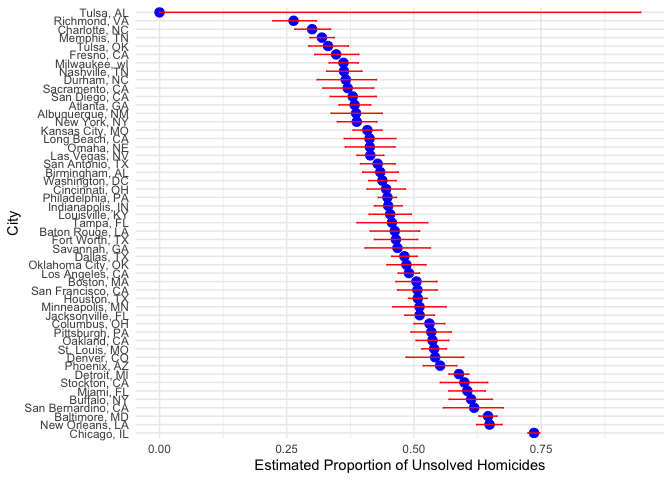
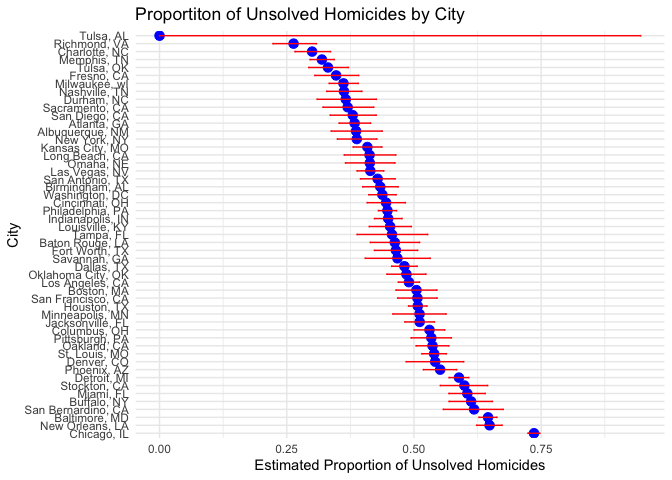
Perform simulations for problem 3

Changed region(s): [[0.0312, 0.0, 1.0, 0.9062], [0.0, 0.4375, 0.0312, 0.5312]]

diff --git a/p8105_hw5_xz3173.md b/p8105_hw5_xz3173.md
@@ -125,7 +125,7 @@ prop_test_result =
     n = pull(baltimore_df, total_homicides)) 
 
 # Tidying the result using broom:tidy
-tidied_result = broom::tidy(prop_test_result)
+tidied_result = tidy(prop_test_result)
 
 # Extracting the estimated proportion and confidence intervals
 estimated_proportion = pull(tidied_result, estimate)
@@ -159,20 +159,6 @@ results_df = city_summary |>
     ## Caused by warning in `prop.test()`:
     ## ! Chi-squared approximation may be incorrect
 
-``` r
-head(results_df)
-```
-
-    ## # A tibble: 6 × 4
-    ##   city_state      estimate conf.low conf.high
-    ##   <chr>              <dbl>    <dbl>     <dbl>
-    ## 1 Albuquerque, NM    0.386    0.337     0.438
-    ## 2 Atlanta, GA        0.383    0.353     0.415
-    ## 3 Baltimore, MD      0.646    0.628     0.663
-    ## 4 Baton Rouge, LA    0.462    0.414     0.511
-    ## 5 Birmingham, AL     0.434    0.399     0.469
-    ## 6 Boston, MA         0.505    0.465     0.545
-
 Create a plot that shows the estimates and CIs for each city – check out
 geom_errorbar for a way to add error bars based on the upper and lower
 limits. Organize cities according to the proportion of unsolved
@@ -199,7 +185,11 @@ plot =
     x = "City",
     y = "Estimated Proportion of Unsolved Homicides") +
   theme_minimal()
+
+plot
 ```
+
+![](p8105_hw5_xz3173_files/figure-gfm/unnamed-chunk-5-1.png)<!-- -->
 
 # Problem 2
 
@@ -454,3 +444,44 @@ estimate of μ̂ only in samples for which the null was rejected on the y
 axis and the true value of μ on the x axis. Is the sample average of μ̂
 across tests for which the null is rejected approximately equal to the
 true value of μ ? Why or why not?
+
+``` r
+# Define the simulation function
+sim_t_test = function(n = 30, mu = 0, sigma =5) {
+    x = rnorm(n, mean = mu, sd = sigma)
+    test_result = t.test(x, mu = 0)
+    tidy(test_result)
+}
+```
+
+``` r
+mu_values = 0:6
+alpha = 0.05
+
+# Create a grid for simulations
+sim_grid =
+  expand_grid(
+    mu = mu_values,
+    iter = 1:5000
+    ) 
+```
+
+``` r
+# Perform simulations
+all_results = sim_grid |>
+  mutate(
+    sim_results = 
+      map2(
+        mu,
+        iter,
+        ~sim_t_test(
+          n = 30,
+          mu = .x, 
+          sigma = 5))) |>
+  select(-iter) |>
+  unnest(sim_results) |>
+  mutate(
+    rejected_null = p.value < alpha,
+    mu = as.numeric(mu)
+  )
+```
